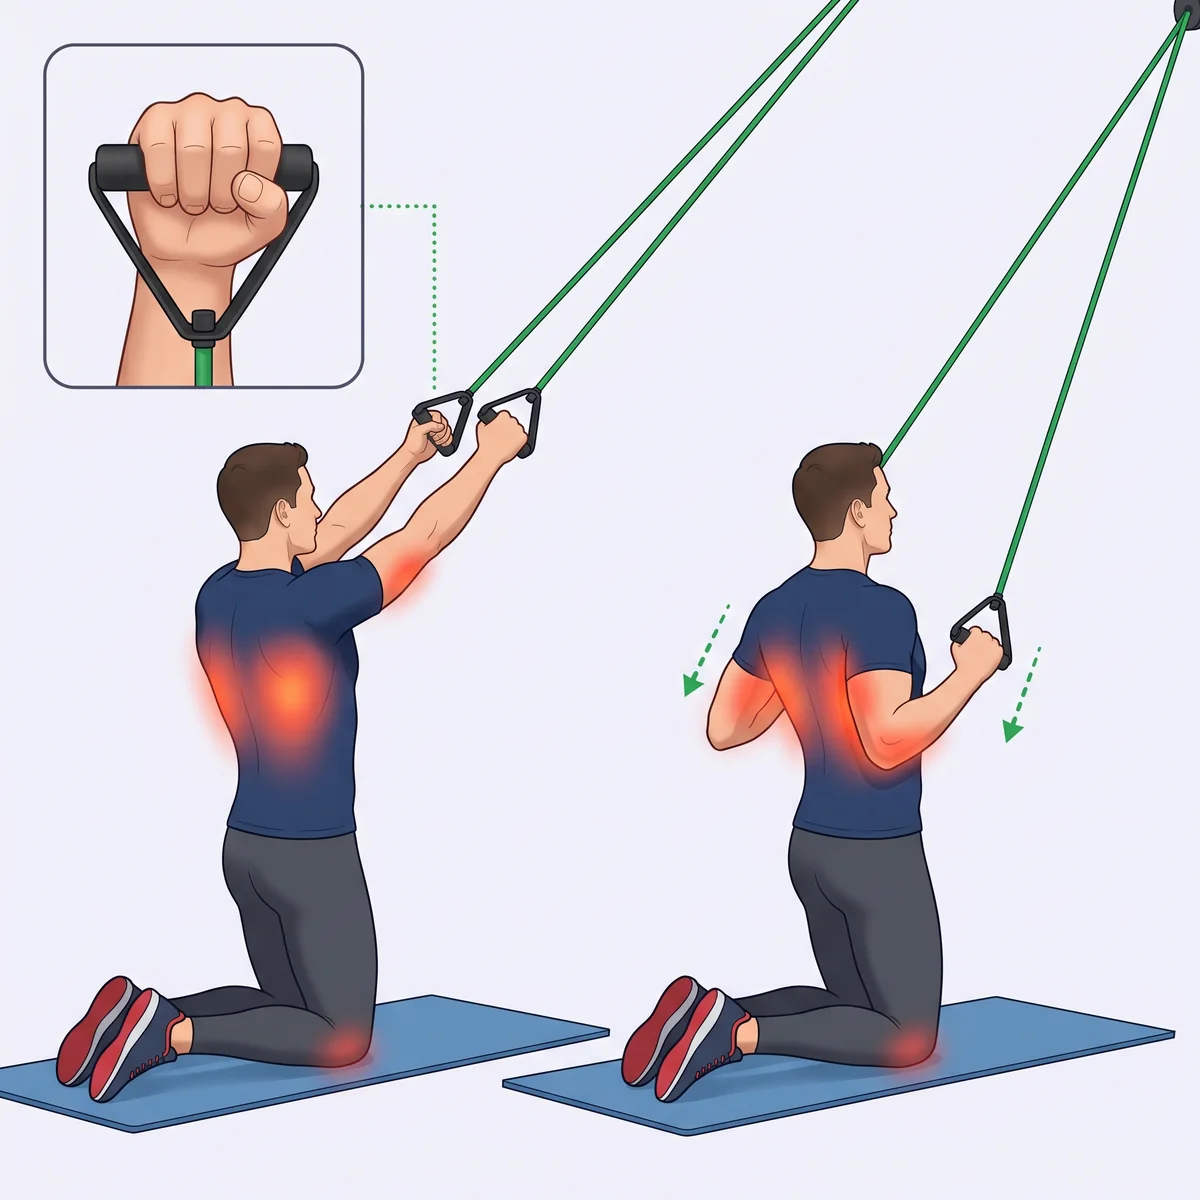
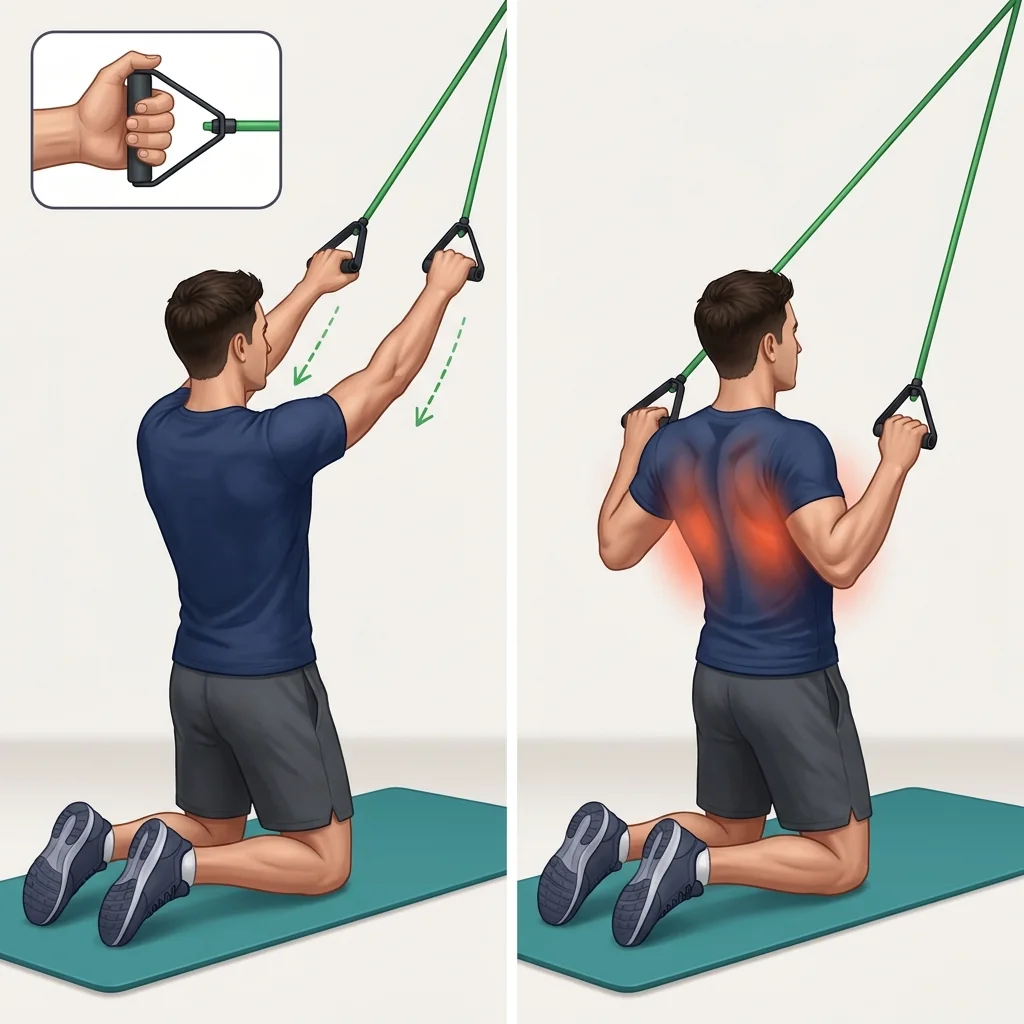
v2.78: заменены все иллюстрации упражнений на новые (53 картинки, 47 пар упражнение:вариант)
Claude-Session: https://claude.ai/code/session_01XQgcBpDqNXsM8SECTqxTK8

diff --git a/trainui.js b/trainui.js
@@ -5,7 +5,7 @@ import * as TR from "./train.js?v=14";
 
 /* Картинки упражнений (папка img/): `${id}-${vk}-${n}.webp`. В PHOTOS число картинок для пары (упражнение:вариант).
    Одна картинка показывается как есть, две листаются свайпом. Нет картинки — ничего не показываем (рисунки-схемы убраны в v2.69). */
-const PHOTOS = new Map([["shoulderpress:band", 1], ["deadbug:bw", 1], ["pulldown:band", 2], ["pushup:bw", 1]]);
+const PHOTOS = new Map([["bentrow:band", 2], ["birddog:bw", 1], ["bridge:bw", 1], ["calf:bw", 1], ["chestpress:band", 1], ["crunch:bw", 1], ["curl:band", 1], ["deadbug:bw", 1], ["donkey:bw", 1], ["facepull:band", 2], ["frontraise:band", 1], ["legraise:bw", 1], ["lunge:bw", 1], ["march:bw", 1], ["mob_ankle:bw", 1], ["mob_arm:bw", 1], ["mob_catcow:bw", 1], ["mob_elbow:bw", 1], ["mob_hip:bw", 1], ["mob_knee:bw", 1], ["mob_legswing:bw", 1], ["mob_neck:bw", 1], ["mob_shoulder:bw", 1], ["mob_twist:bw", 1], ["mob_wrist:bw", 1], ["mtnclimber:bw", 1], ["plank:bw", 1], ["pulldown:band", 2], ["pushdown:band", 1], ["pushup:bw", 1], ["rdl:band", 2], ["row:band", 2], ["run_tm:bw", 1], ["shoulderpress:band", 1], ["squat:band", 2], ["squat:bw", 2], ["st_calf:bw", 1], ["st_child:bw", 1], ["st_ham:band", 1], ["st_quad:bw", 1], ["superman:bw", 1], ["triext:band", 1], ["walk_out:bw", 1], ["walk_tm:bw", 1], ["wristcurl:band", 1], ["wristext:band", 1]]);
 const hasPhoto = (id, vk) => PHOTOS.has(`${id}:${vk}`);
 function exFig(id, vk) {
   const n = PHOTOS.get(`${id}:${vk}`);

diff --git a/app.js b/app.js
@@ -13,7 +13,7 @@ import {
 import { STARTER } from "./starter.js?v=50";
 import { DRINKS, DRINK_CATS, DRINK_BY_ID } from "./drinks.js?v=30";
 import * as TR from "./train.js?v=14";
-import { createTrainUI } from "./trainui.js?v=40";
+import { createTrainUI } from "./trainui.js?v=41";
 
 const firebaseConfig = {
   apiKey: "AIzaSyAItOJn5dO44kAy9xjrigslIdsE0au_y0A",
@@ -76,8 +76,8 @@ function dayLabel(s) {
 // Всплывающие оповещения отключены полностью (по просьбе пользователя): функция оставлена пустой, чтобы не менять вызовы по коду
 function toast() {}
 
-const APP_VERSION = 280;
-const APP_VERSION_LABEL = "2.77"; // показывается пользователю; APP_VERSION (число) — только для проверки актуальности кэша
+const APP_VERSION = 281;
+const APP_VERSION_LABEL = "2.78"; // показывается пользователю; APP_VERSION (число) — только для проверки актуальности кэша
 
 /* ================= Состояние ================= */
 const HISTORY_DAYS = 90; // сколько последних дней подписка держит «вживую»; всё, что старше, подгружается по запросу и никогда не удаляется

diff --git a/index.html b/index.html
@@ -11,7 +11,7 @@
   <meta name="mobile-web-app-capable" content="yes">
   <meta name="apple-mobile-web-app-status-bar-style" content="default">
   <meta name="apple-mobile-web-app-title" content="Health">
-  <meta name="app-label" content="2.77">
+  <meta name="app-label" content="2.78">
   <link rel="manifest" href="manifest.webmanifest">
   <link rel="apple-touch-icon" href="apple-touch-icon.png?v=7">
   <link rel="icon" type="image/png" href="icon-192.png?v=7">
@@ -65,6 +65,6 @@
   <div id="loading" class="loading hidden"><div class="spinner" aria-label="Загрузка"></div></div>
   <div id="toast" class="toast" role="status" aria-live="polite"></div>
 
-  <script type="module" src="app.js?v=280"></script>
+  <script type="module" src="app.js?v=281"></script>
 </body>
 </html>
